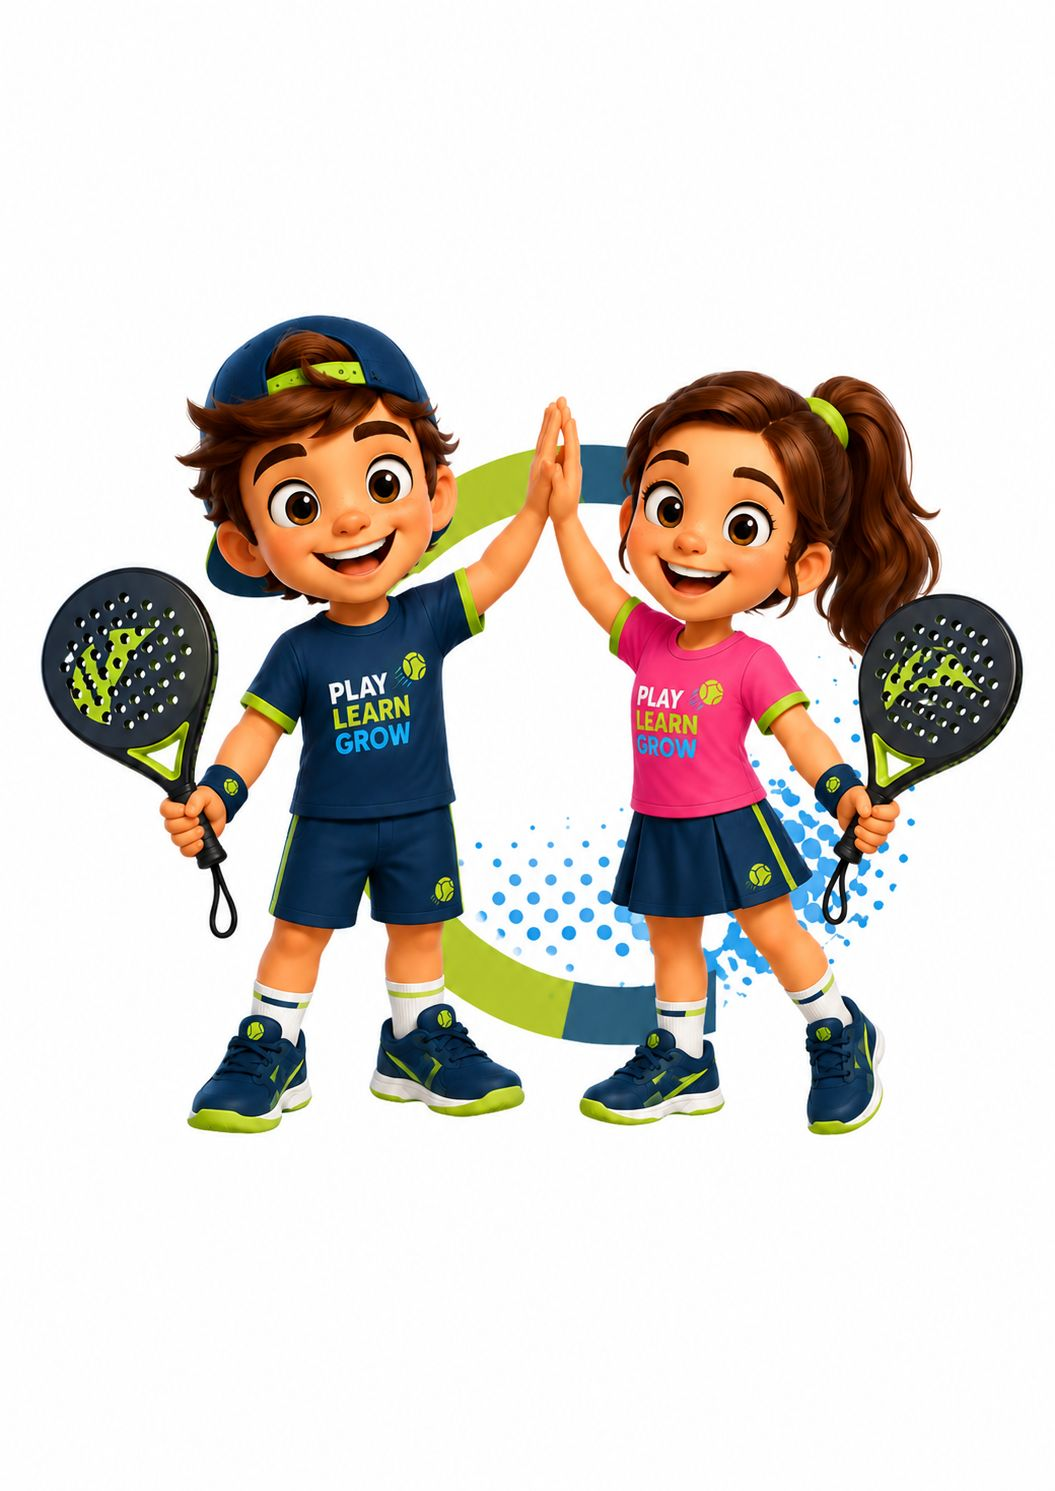
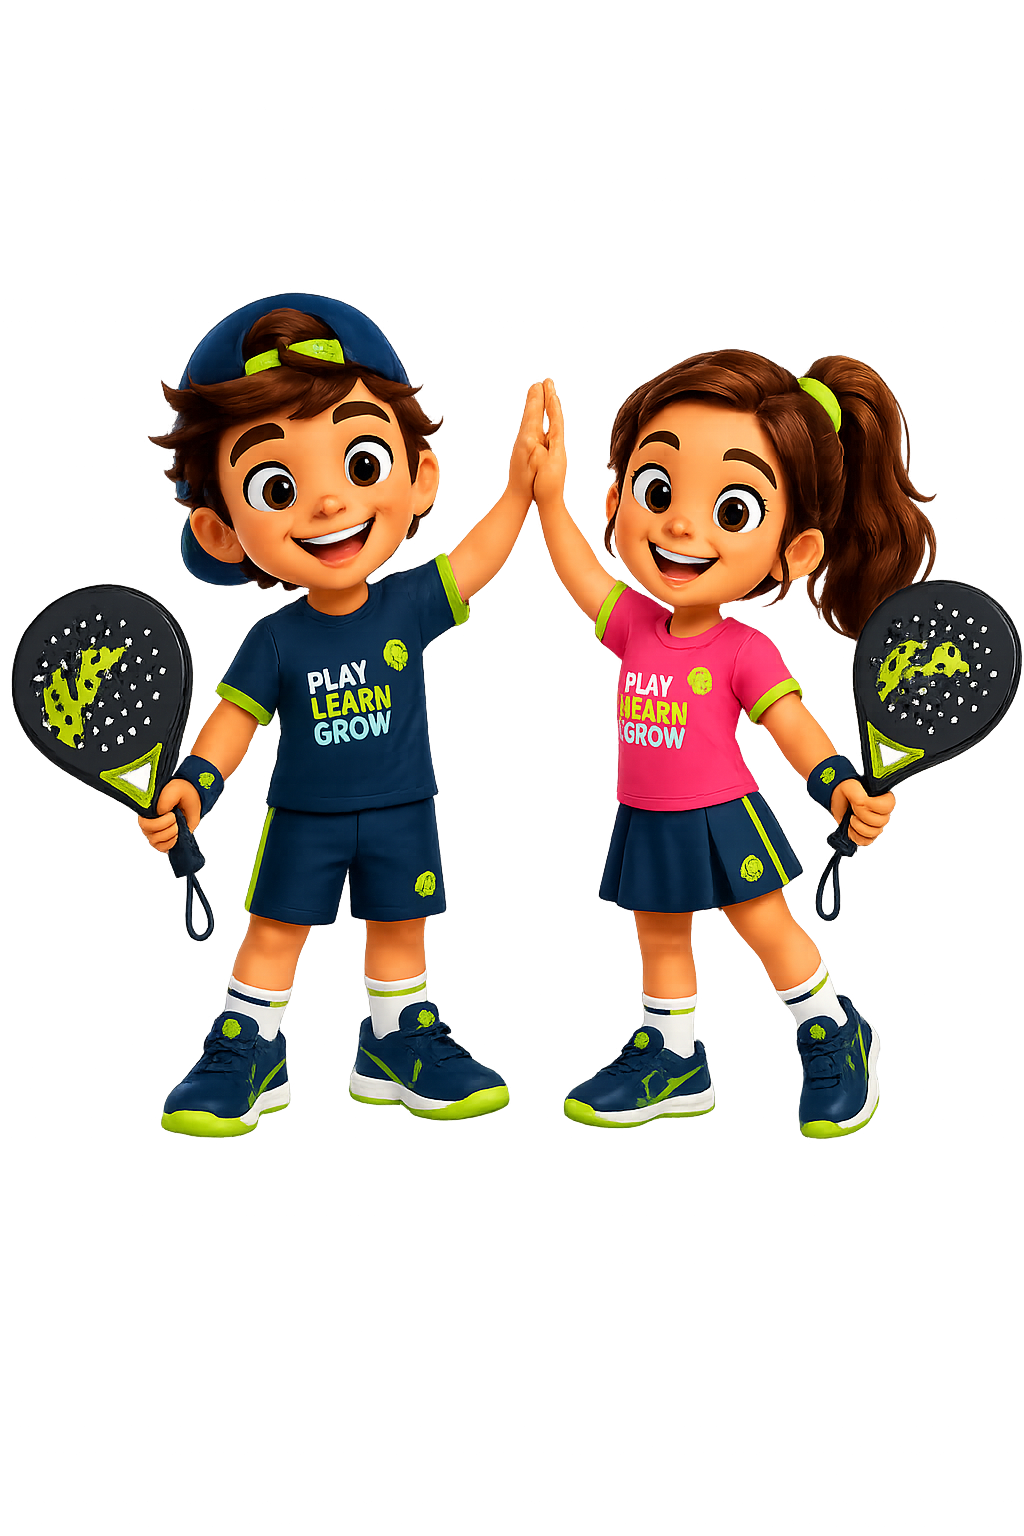
fix: replace hero image with black-bg version, enlarge and blend into navy
- public/images/hero-kids.png: replaced with black-background version of the mascot
- app/page.tsx: hero image uses mix-blend-mode:lighten to dissolve the black
  background into the navy section, image enlarged to 520–580px wide on desktop
  and bottom-anchored so kids appear to stand inside the section

Changed region(s): [[0.0, 0.1851, 1.0, 0.7713]]

diff --git a/app/page.tsx b/app/page.tsx
@@ -15,15 +15,15 @@ export default async function HomePage() {
     <main>
       {/* Hero */}
       <section className="relative bg-navy overflow-hidden">
-        <div className="mx-auto flex max-w-6xl flex-col items-center gap-8 px-4 py-10 sm:flex-row sm:items-center sm:gap-12 sm:py-16">
-          {/* Text + CTA */}
-          <div className="flex-1 text-center sm:text-left text-navy-foreground">
+        <div className="mx-auto flex max-w-6xl flex-col items-center px-4 pt-10 pb-0 sm:flex-row sm:items-end sm:gap-0 sm:pt-14 sm:pb-0">
+          {/* Text + CTA — sits above the image on mobile, left on desktop */}
+          <div className="flex-1 text-center sm:text-left text-navy-foreground pb-8 sm:pb-14 sm:pr-8 z-10">
             <p className="mb-2 text-sm font-bold uppercase tracking-widest text-lime">Next Gen Padel Academy</p>
-            <h1 className="text-balance text-4xl font-black leading-tight sm:text-5xl lg:text-6xl">
+            <h1 className="text-balance text-4xl font-black leading-tight text-white sm:text-5xl lg:text-6xl">
               Coaching for<br className="hidden sm:block" /> Boys &amp; Girls
             </h1>
             <p className="mt-3 text-2xl font-black text-lime sm:text-3xl">Ages 5 – 17 Years</p>
-            <p className="mx-auto mt-4 max-w-md text-pretty text-sm leading-relaxed text-navy-foreground/70 sm:mx-0 sm:text-base">
+            <p className="mx-auto mt-4 max-w-md text-pretty text-sm leading-relaxed text-white/70 sm:mx-0 sm:text-base">
               Learn padel the right way — fun, safe, and with coaches who care.
             </p>
             <div className="mt-7 flex flex-col gap-3 sm:flex-row sm:justify-start justify-center">
@@ -42,15 +42,15 @@ export default async function HomePage() {
             </div>
           </div>
 
-          {/* Mascot image */}
-          <div className="relative flex-shrink-0 w-72 sm:w-80 lg:w-96">
+          {/* Mascot — large, bottom-anchored, black bg blends into navy */}
+          <div className="relative flex-shrink-0 w-80 sm:w-[420px] lg:w-[520px] xl:w-[580px] self-end">
             <Image
               src="/images/hero-kids.png"
               alt="Two kids with padel rackets — Play, Learn, Grow"
-              width={600}
-              height={700}
+              width={870}
+              height={1100}
               priority
-              className="w-full h-auto drop-shadow-2xl"
+              className="w-full h-auto [mix-blend-mode:lighten]"
             />
           </div>
         </div>